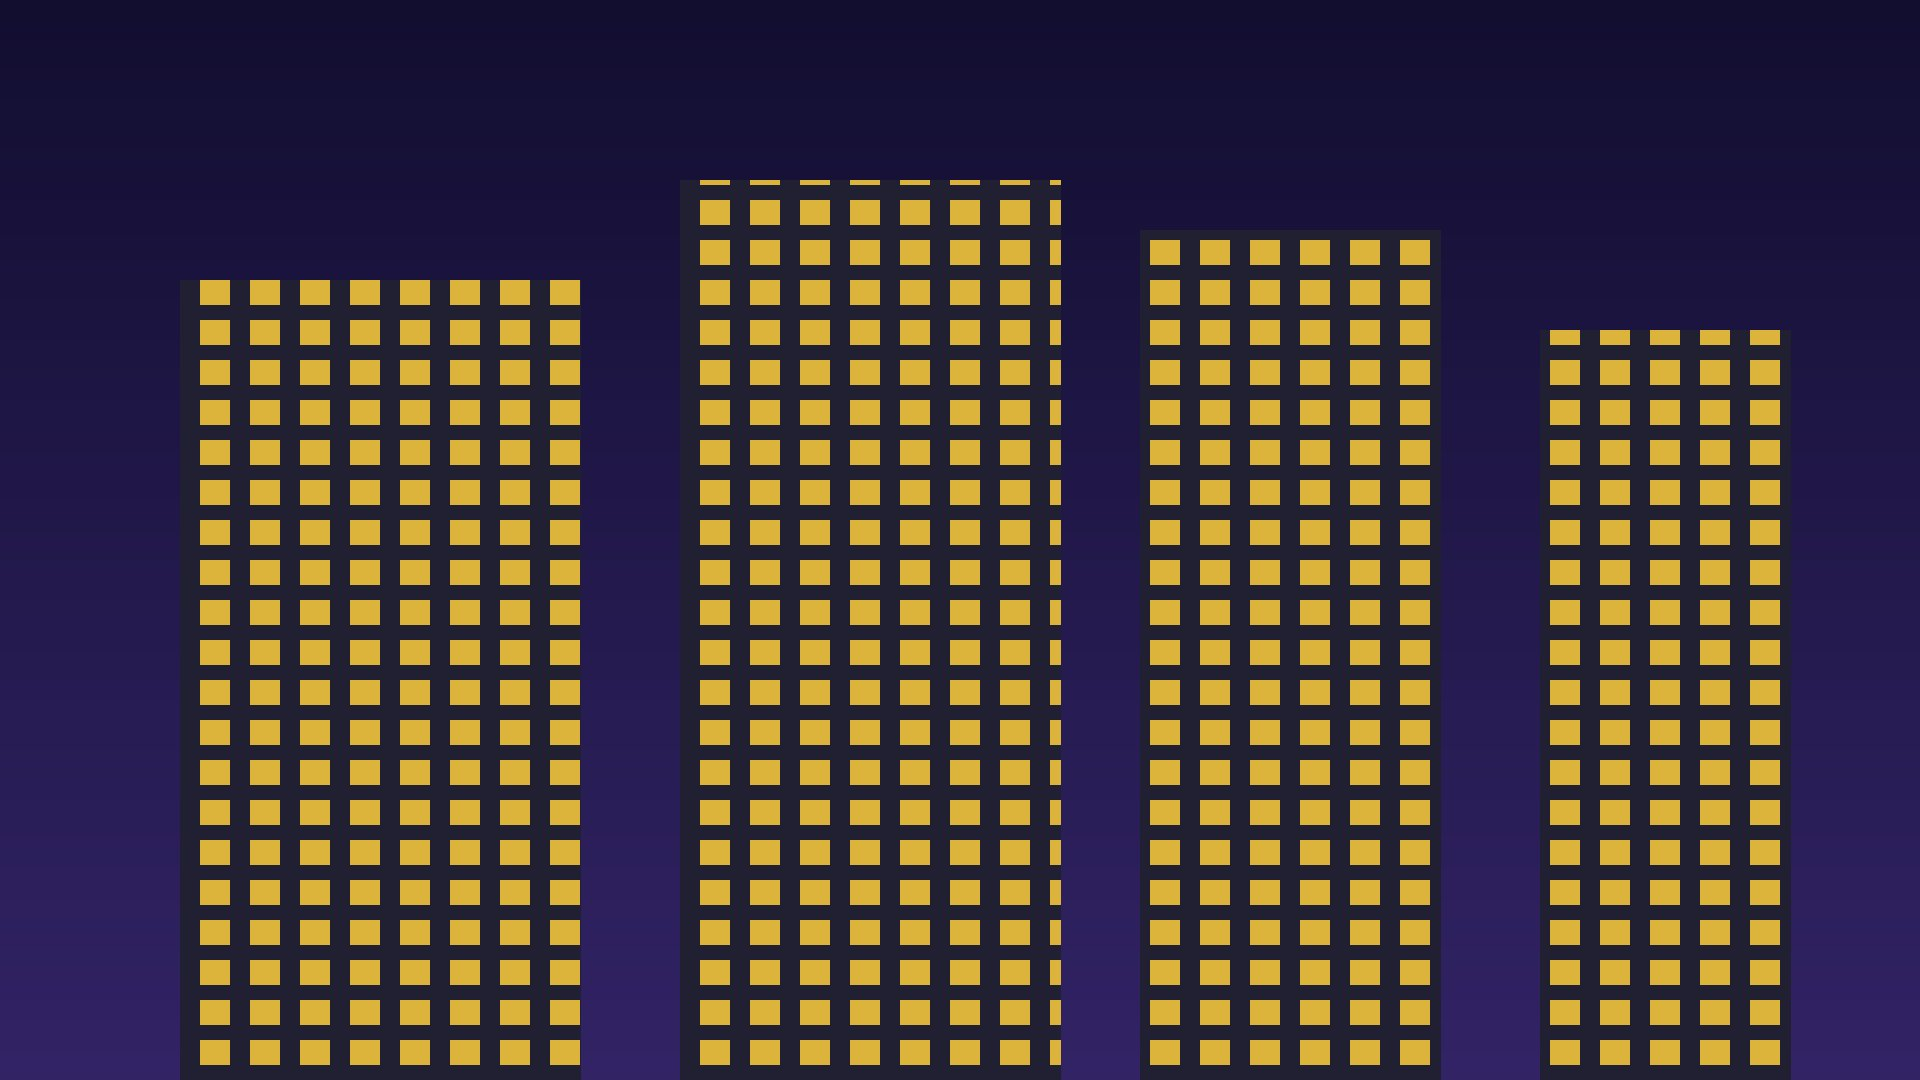
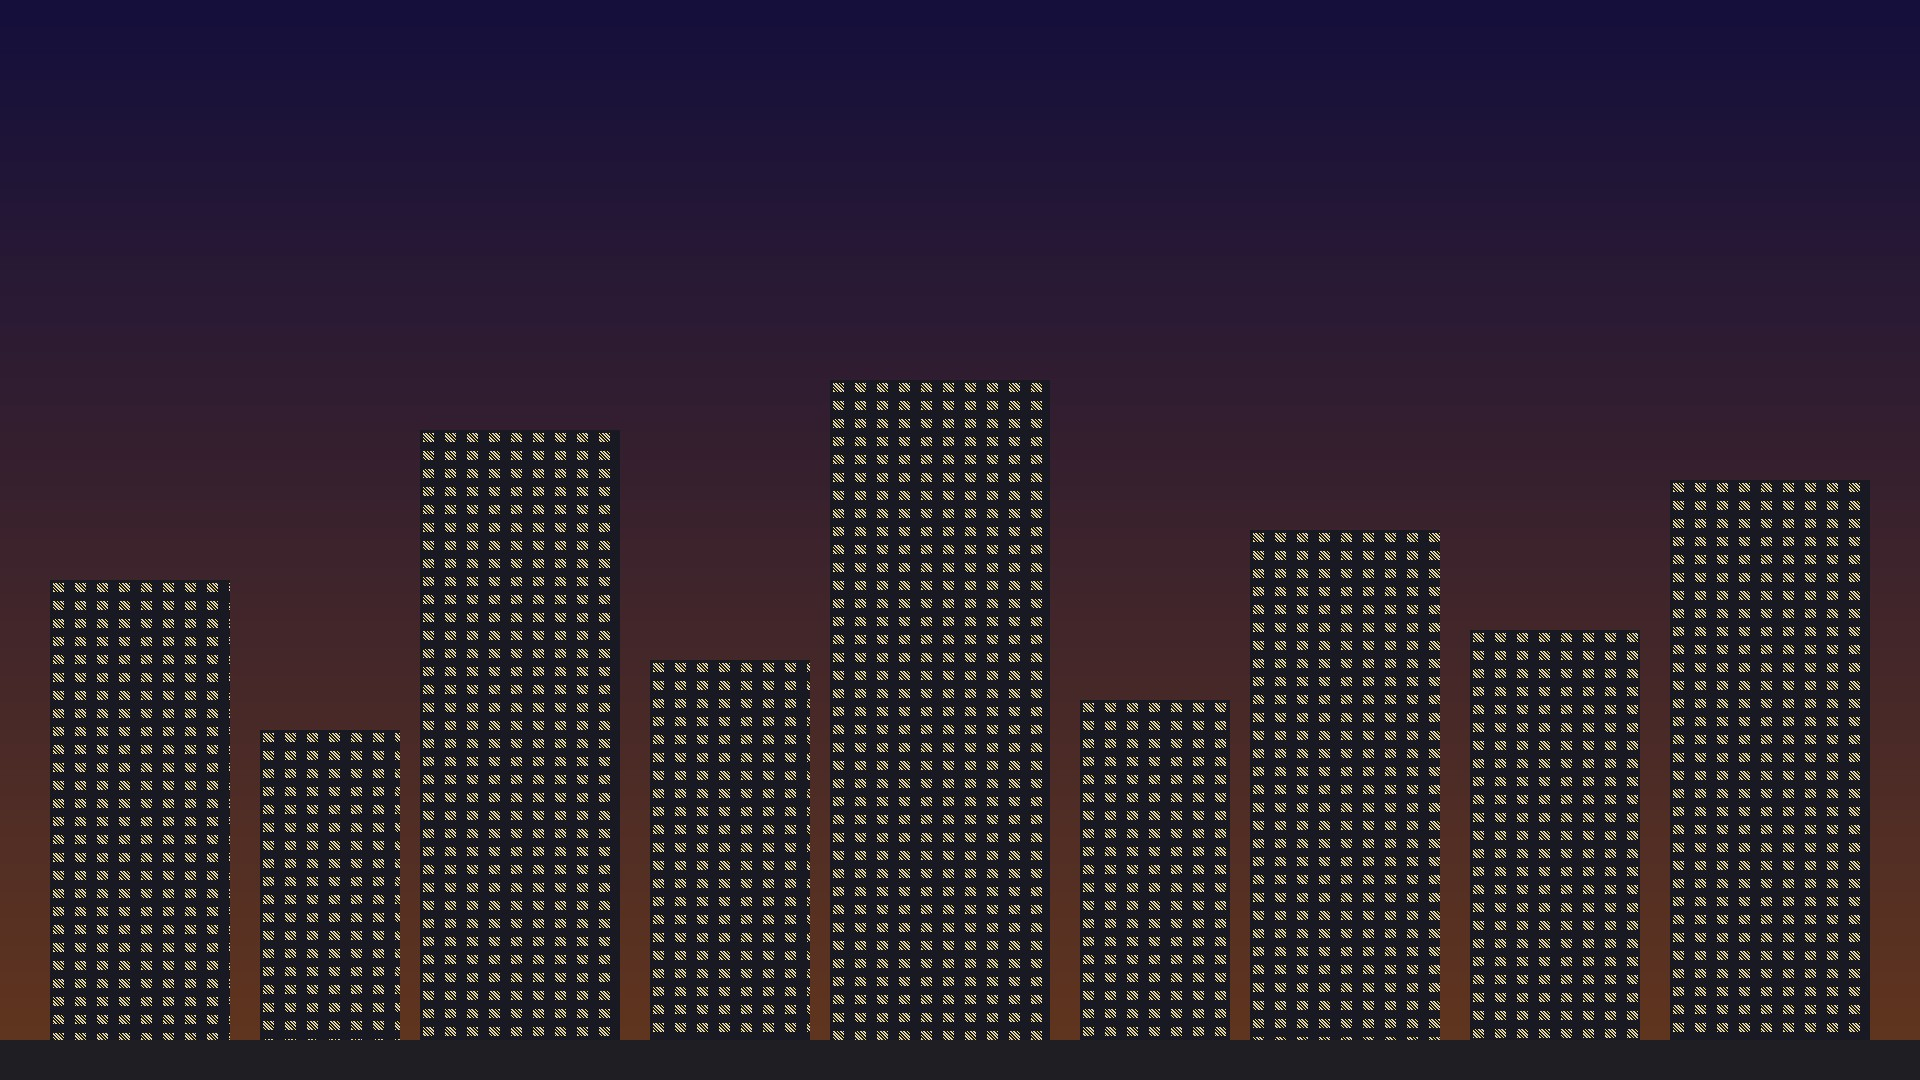
Focus on facade washing only, remove furniture/carpet cleaning

diff --git a/public/index.html b/public/index.html
@@ -3,8 +3,8 @@
 <head>
   <meta charset="UTF-8">
   <meta name="viewport" content="width=device-width, initial-scale=1.0">
-  <title>ЧистоДом — Мытьё фасадов, химчистка мебели и ковров</title>
-  <meta name="description" content="Профессиональное мытьё фасадов, химчистка мебели и ковров.">
+  <title>ЧистоДом — Мытьё фасадов зданий</title>
+  <meta name="description" content="Профессиональное мытьё фасадов зданий любой этажности.">
   <link rel="preconnect" href="https://fonts.googleapis.com">
   <link href="https://fonts.googleapis.com/css2?family=Inter:wght@300;400;500;600;700;800;900&display=swap" rel="stylesheet">
   <link rel="stylesheet" href="/css/style.css">
@@ -28,30 +28,31 @@
 
 <main>
 
-<section class="hero" style="background-image:url('/images/hero.jpg')">
+<section class="hero">
+  <img class="hero__bg" src="/images/hero.jpg" alt="">
   <div class="hero__overlay"></div>
   <div class="container hero__content">
     <p class="hero__label">Чистота без компромиссов</p>
     <h1 class="hero__title">Мы делаем<br><em>идеально</em></h1>
-    <p class="hero__text">Мытьё фасадов, химчистка мебели и ковров.<br>Быстро. Чисто. Гарантия.</p>
-    <a href="#contact" class="btn btn--dark">Обсудить проект</a>
+    <p class="hero__text">Мытьё фасадов любой сложности.<br>Быстро. Чисто. Гарантия.</p>
+    <a href="#contact" class="btn btn--light">Обсудить проект</a>
   </div>
 </section>
 
 <section class="marquee">
   <div class="marquee__track">
     <span>МЫТЬЁ ФАСАДОВ</span><span class="marquee__dot">●</span>
-    <span>ХИМЧИСТКА МЕБЕЛИ</span><span class="marquee__dot">●</span>
-    <span>ЧИСТКА КОВРОВ</span><span class="marquee__dot">●</span>
+    <span>МЫВАЕМ ЛЮБЫЕ ЗДАНИЯ</span><span class="marquee__dot">●</span>
+    <span>ОТ 1-ГО ДО 50-ГО ЭТАЖА</span><span class="marquee__dot">●</span>
     <span>МЫТЬЁ ФАСАДОВ</span><span class="marquee__dot">●</span>
-    <span>ХИМЧИСТКА МЕБЕЛИ</span><span class="marquee__dot">●</span>
-    <span>ЧИСТКА КОВРОВ</span><span class="marquee__dot">●</span>
+    <span>МЫВАЕМ ЛЮБЫЕ ЗДАНИЯ</span><span class="marquee__dot">●</span>
+    <span>ОТ 1-ГО ДО 50-ГО ЭТАЖА</span><span class="marquee__dot">●</span>
     <span>МЫТЬЁ ФАСАДОВ</span><span class="marquee__dot">●</span>
-    <span>ХИМЧИСТКА МЕБЕЛИ</span><span class="marquee__dot">●</span>
-    <span>ЧИСТКА КОВРОВ</span><span class="marquee__dot">●</span>
+    <span>МЫВАЕМ ЛЮБЫЕ ЗДАНИЯ</span><span class="marquee__dot">●</span>
+    <span>ОТ 1-ГО ДО 50-ГО ЭТАЖА</span><span class="marquee__dot">●</span>
     <span>МЫТЬЁ ФАСАДОВ</span><span class="marquee__dot">●</span>
-    <span>ХИМЧИСТКА МЕБЕЛИ</span><span class="marquee__dot">●</span>
-    <span>ЧИСТКА КОВРОВ</span><span class="marquee__dot">●</span>
+    <span>МЫВАЕМ ЛЮБЫЕ ЗДАНИЯ</span><span class="marquee__dot">●</span>
+    <span>ОТ 1-ГО ДО 50-ГО ЭТАЖА</span><span class="marquee__dot">●</span>
   </div>
 </section>
 
@@ -68,16 +69,16 @@
 
       <article class="service">
         <span class="service__number">02</span>
-        <h2 class="service__title">Химчистка мебели</h2>
-        <p class="service__desc">Глубокая чистка диванов, кресёл, матрасов. Удаляем пятна, запахи и аллергены.</p>
-        <div class="service__price">от 800 ₽<span>/место</span></div>
+        <h2 class="service__title">Мойка окон</h2>
+        <p class="service__desc">Чистое стекло без разводов. Мытьё окон на любой высоте.</p>
+        <div class="service__price">от 100 ₽<span>/м²</span></div>
       </article>
 
       <article class="service">
         <span class="service__number">03</span>
-        <h2 class="service__title">Чистка ковров</h2>
-        <p class="service__desc">Эффективная чистка ковров и ковровых покрытий. Возвращаем яркость цветов.</p>
-        <div class="service__price">от 350 ₽<span>/м²</span></div>
+        <h2 class="service__title">Консервация фасадов</h2>
+        <p class="service__desc">Наносим защитное покрытие, чтобы фасад дольше оставался чистым.</p>
+        <div class="service__price">от 200 ₽<span>/м²</span></div>
       </article>
 
     </div>
@@ -144,11 +145,11 @@
         <footer class="review__author">Алексей Смирнов <span>— директор ООО «СтройГрупп»</span></footer>
       </blockquote>
       <blockquote class="review">
-        <p class="review__text">«Химчистка дивана после ремонта — думала, уже не спасти. Вернули первозданный вид.»</p>
-        <footer class="review__author">Елена Козлова <span>— частный клиент</span></footer>
+        <p class="review__text">«Помыли фасад бизнес-центра перед открытием. Стекло блестит, клиенты в восторге.»</p>
+        <footer class="review__author">Елена Козлова <span>— управляющий ТРЦ «Меридиан»</span></footer>
       </blockquote>
       <blockquote class="review">
-        <p class="review__text">«Чистили ковёр 80 м² в офисе. Удалили все пятна. Приятно удивлены качеством.»</p>
+        <p class="review__text">«Регулярно моем фасад нашего офиса. Всегда чисто и в срок. Рекомендую.»</p>
         <footer class="review__author">Дмитрий Морозов <span>— «ОфисПлюс»</span></footer>
       </blockquote>
     </div>
@@ -175,8 +176,8 @@
         <select name="service" class="form__input" aria-label="Выберите услугу">
           <option value="">Какая услуга?</option>
           <option value="facade">Мытьё фасадов</option>
-          <option value="furniture">Химчистка мебели</option>
-          <option value="carpet">Чистка ковров</option>
+          <option value="windows">Мойка окон</option>
+          <option value="conservation">Консервация фасадов</option>
         </select>
         <textarea name="message" class="form__input form__textarea" placeholder="Опишите задачу (необязательно)" rows="3" maxlength="500"></textarea>
         <button type="submit" class="btn btn--dark btn--full">Отправить заявку</button>

diff --git a/public/css/style.css b/public/css/style.css
@@ -18,13 +18,16 @@ body{font-family:'Inter',sans-serif;color:#111;background:#fff;line-height:1.5;-
 .burger.active span:last-child{bottom:50%;transform:rotate(-45deg)}
 
 /* HERO */
-.hero{position:relative;min-height:100vh;display:flex;align-items:center;background-size:cover;background-position:center}
-.hero__overlay{position:absolute;inset:0;background:linear-gradient(135deg,rgba(0,0,0,.5) 0%,rgba(0,0,0,.3) 100%)}
+.hero{position:relative;height:100vh;display:flex;align-items:center;overflow:hidden}
+.hero__bg{position:absolute;inset:0;width:100%;height:100%;object-fit:cover}
+.hero__overlay{position:absolute;inset:0;background:linear-gradient(135deg,rgba(0,0,0,.55) 0%,rgba(0,0,0,.3) 100%)}
 .hero__content{position:relative;z-index:1}
 .hero__label{font-size:13px;font-weight:600;text-transform:uppercase;letter-spacing:2px;color:rgba(255,255,255,.6);margin-bottom:24px}
 .hero__title{font-size:clamp(56px,10vw,120px);font-weight:900;letter-spacing:-3px;line-height:.95;margin-bottom:32px;color:#fff}
 .hero__title em{font-style:italic;color:rgba(255,255,255,.6)}
-.hero__text{font-size:18px;color:rgba(255,255,255,.8);margin-bottom:48px;max-width:400px;line-height:1.7}
+.hero__text{font-size:18px;color:rgba(255,255,255,.85);margin-bottom:48px;max-width:400px;line-height:1.7}
+.btn--light{background:#fff;color:#111}
+.btn--light:hover{background:#f0f0f0}
 
 /* MARQUEE */
 .marquee{padding:20px 0;border-top:1px solid #e5e5e5;border-bottom:1px solid #e5e5e5;overflow:hidden}
@@ -39,7 +42,8 @@ body{font-family:'Inter',sans-serif;color:#111;background:#fff;line-height:1.5;-
 .btn--full{width:100%;padding:16px;border-radius:12px}
 
 /* SERVICES */
-.services{padding:120px 0}
+.services{padding:100px 0;background:#fff}
+.section-title{font-size:36px;font-weight:800;letter-spacing:-1px;margin-bottom:48px}
 .services__grid{display:grid;grid-template-columns:repeat(3,1fr);gap:1px;background:#e5e5e5}
 .service{background:#fff;padding:48px 36px}
 .service__number{font-size:12px;font-weight:700;color:#bbb;letter-spacing:1px}
@@ -49,13 +53,13 @@ body{font-family:'Inter',sans-serif;color:#111;background:#fff;line-height:1.5;-
 .service__price span{font-size:14px;font-weight:500;color:#999}
 
 /* NUMBERS */
-.numbers{padding:80px 0;border-top:1px solid #e5e5e5;border-bottom:1px solid #e5e5e5}
+.numbers{padding:80px 0;background:#fff;border-top:1px solid #e5e5e5;border-bottom:1px solid #e5e5e5}
 .numbers__grid{display:grid;grid-template-columns:repeat(4,1fr);gap:32px;text-align:center}
 .number__value{display:block;font-size:48px;font-weight:900;letter-spacing:-2px}
 .number__label{font-size:13px;color:#999;text-transform:uppercase;letter-spacing:1px;margin-top:4px}
 
 /* PROCESS */
-.process{padding:120px 0}
+.process{padding:120px 0;background:#fff}
 .section-title{font-size:40px;font-weight:800;letter-spacing:-1.5px;margin-bottom:64px}
 .process__grid{display:grid;grid-template-columns:repeat(4,1fr);gap:48px}
 .process__num{font-size:48px;font-weight:900;color:#e5e5e5;display:block;margin-bottom:16px}
@@ -63,7 +67,7 @@ body{font-family:'Inter',sans-serif;color:#111;background:#fff;line-height:1.5;-
 .process__text{font-size:14px;color:#666;line-height:1.7}
 
 /* REVIEWS */
-.reviews{padding:120px 0}
+.reviews{padding:120px 0;background:#fff}
 .reviews__grid{display:grid;grid-template-columns:repeat(3,1fr);gap:32px}
 .review{padding:40px 32px;border-radius:12px;border:1px solid #e5e5e5}
 .review__text{font-size:15px;line-height:1.8;margin-bottom:24px;font-style:italic}
@@ -71,7 +75,7 @@ body{font-family:'Inter',sans-serif;color:#111;background:#fff;line-height:1.5;-
 .review__author span{font-weight:400;color:#999}
 
 /* CONTACT */
-.contact{padding:120px 0}
+.contact{padding:120px 0;background:#fff}
 .contact__inner{display:grid;grid-template-columns:1fr 1fr;gap:80px;align-items:start}
 .contact__title{font-size:48px;font-weight:900;letter-spacing:-2px;line-height:1.1;margin-bottom:16px}
 .contact__text{font-size:16px;color:#666;margin-bottom:32px;line-height:1.7}
@@ -111,7 +115,6 @@ body{font-family:'Inter',sans-serif;color:#111;background:#fff;line-height:1.5;-
   .form__row{grid-template-columns:1fr}
 }
 @media(max-width:480px){
-  .hero{min-height:auto;padding:140px 0 80px}
   .hero__title{font-size:48px;letter-spacing:-1.5px}
   .number__value{font-size:36px}
   .process__grid{grid-template-columns:1fr}